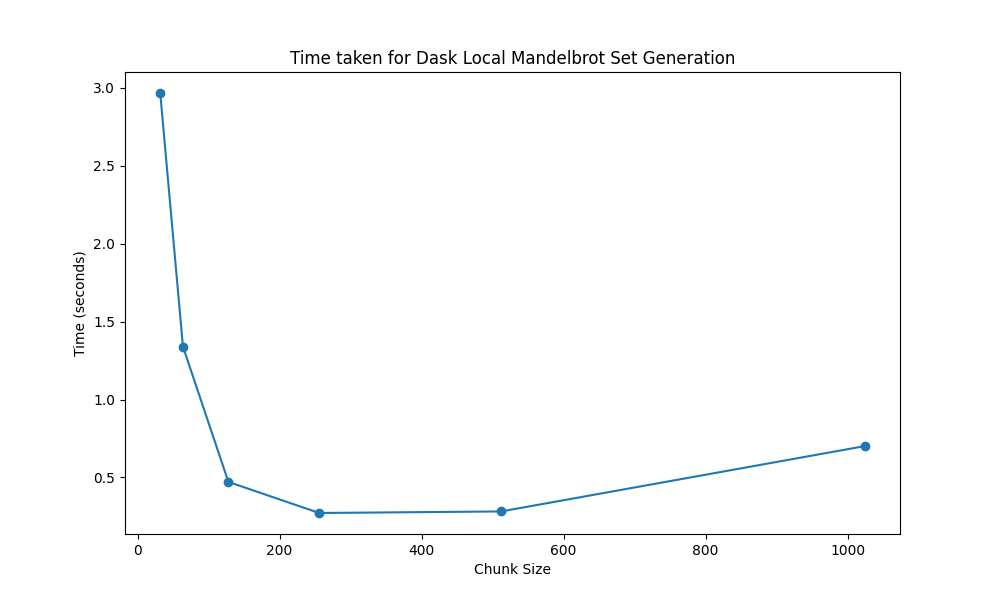
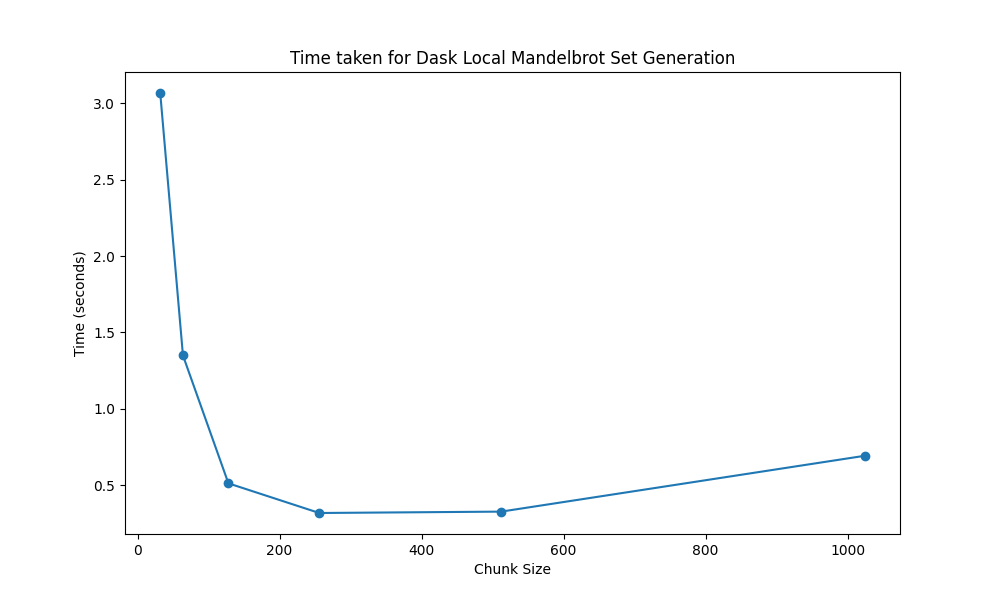
Cleanup parallel implementation and add speedup

diff --git a/project-2/parallel.py b/project-2/parallel.py
@@ -10,27 +10,34 @@ def generate_mandelbrot_set_parallel(x_min: float, x_max: float, y_min: float, y
     # Create a 2D array to hold the results.
     mandelbrot_set = np.zeros((height, width), dtype=int)
 
-    # Create a list of tasks for each chunk of rows.
-    # Each task will compute a portion of the Mandelbrot set for a specific range of y values.
+    # Create a list of tasks for each chunk.
+    # Each task will compute a portion of the Mandelbrot set.
     tasks = []
+    chunks = []
     for y_start in range(0, height, chunk_size):
         y_end = min(y_start + chunk_size, height)
-        tasks.append((x_min, x_max, y_min + (y_start / height) * (y_max - y_min),
-                      y_min + (y_end / height) * (y_max - y_min), width, y_end - y_start, max_iterations))
+        for x_start in range(0, width, chunk_size):
+            x_end = min(x_start + chunk_size, width)
+            chunk_x_min = x_min + (x_start / width) * (x_max - x_min)
+            chunk_x_max = x_min + (x_end / width) * (x_max - x_min)
+            chunk_y_min = y_min + (y_start / height) * (y_max - y_min)
+            chunk_y_max = y_min + (y_end / height) * (y_max - y_min)
+            tasks.append((chunk_x_min, chunk_x_max, chunk_y_min, chunk_y_max,
+                          x_end - x_start, y_end - y_start, max_iterations))
+            chunks.append((y_start, y_end, x_start, x_end))
 
-    # Create a multiprocessing pool and execute the tasks in parallel.
+    # Use multiprocessing to compute the Mandelbrot set in parallel.
     with mp.Pool(processes=processes) as pool:
-        results = [pool.apply_async(generate_mandelbrot_set_vectorized, args=task) for task in tasks]
-        for i, result in enumerate(results):
-            y_start = i * chunk_size
-            y_end = min(y_start + chunk_size, height)
-            mandelbrot_set[y_start:y_end, :] = result.get()
+        results = [pool.apply_async(generate_mandelbrot_set_vectorized, task) for task in tasks]
 
+        # Gather results and combine the corresponding chunks in the final Mandelbrot set array.
+        for result, (y_start, y_end, x_start, x_end) in zip(results, chunks):
+            mandelbrot_set[y_start:y_end, x_start:x_end] = result.get()
     return mandelbrot_set
 
 if __name__ == "__main__":
 
-    from visualization import plot_mandelbrot_set, visualize_parallel_measurements
+    from visualization import plot_mandelbrot_set, visualize_parallel_measurements, visualize_parallel_speedup
     from measurements import save_measurements, load_measurements
     import timeit
 
@@ -40,21 +47,14 @@ if __name__ == "__main__":
     width, height = 1024, 1024
     max_iterations = 100
     processeses = [2, 3, 4]  # Test with different numbers of processes. :)
-    chunk_sizes = range(1, 51)  # Test with different chunk sizes.
+    chunk_sizes = [8, 16, 32, 64, 128, 256, 512, 1024]  # Test with different chunk sizes.
 
     for processes in processeses:
         for chunk_size in chunk_sizes:
-            measurements = []  # List to hold measurements.
-            for _ in range(10):  # Run each configuration 10 times for better accuracy.
 
-                measurements.append(timeit.timeit(lambda: generate_mandelbrot_set_parallel(x_min, x_max, y_min, y_max,
+            average = timeit.timeit(lambda: generate_mandelbrot_set_parallel(x_min, x_max, y_min, y_max,
                                                                 width, height, max_iterations,
-                                                                processes, chunk_size), number=1))
-            # Remove outliers (e.g., times that are more than 2 standard deviations from the mean).
-            mean_time = np.mean(measurements)
-            std_time = np.std(measurements)
-            filtered_measurements = [t for t in measurements if abs(t - mean_time) <= 2 * std_time]
-            average = np.mean(filtered_measurements)  # Average time after removing outliers.
+                                                                processes, chunk_size), number=5) / 5
             print(f"Average time taken to generate Mandelbrot set (parallel with {processes} processes and chunk size {chunk_size}): {average:.2f} seconds")
 
             # Save the measurement to a CSV file for later analysis.
@@ -71,3 +71,4 @@ if __name__ == "__main__":
 
     # Visualize the measurements for the parallel approach.
     visualize_parallel_measurements(measurements)
+    visualize_parallel_speedup(measurements)

diff --git a/project-2/visualization.py b/project-2/visualization.py
@@ -45,3 +45,22 @@ def visualize_dask_local_measurements(measurements: pd.DataFrame):
     os.makedirs("plots", exist_ok=True)
     plt.savefig("plots/dask_local_measurements.png")
     plt.close()
+
+def visualize_parallel_speedup(measurements: pd.DataFrame):
+    # Filter measurements for the parallel and vectorized approaches.
+    parallel_measurements = measurements[measurements["approach"] == "parallel"]
+    vectorized_measurements = measurements[measurements["approach"] == "vectorized"]
+
+    plt.figure(figsize=(10, 6))
+    for processes, group in parallel_measurements.groupby("processes"):
+        speedup = vectorized_measurements["time_seconds"].values[0] / group["time_seconds"]
+        plt.plot(group["chunk_size"], speedup, marker="o", label=f"{processes} processes")
+    plt.title("Speedup of Parallel Approach Compared to Vectorized Approach")
+    plt.xlabel("Chunk Size")
+    plt.ylabel("Speedup")
+    plt.legend()
+
+    # Save the plot to a file.
+    os.makedirs("plots", exist_ok=True)
+    plt.savefig("plots/speedup_parallel_vs_vectorized.png")
+    plt.close()
